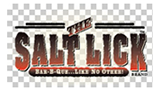
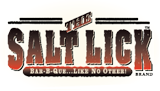
bugs 36 37 and 40

diff --git a/app/stylesheets/screen.scss b/app/stylesheets/screen.scss
@@ -176,7 +176,7 @@ img{ margin: 0px; }
 	font-size: 50px;
 	font-family: $title-family;
 	color: #3f9ecb;
-	width: 60px;
+	width: 80px;
 	height: 60px;
     margin-top: 43px;
 	margin-right: 30px;
